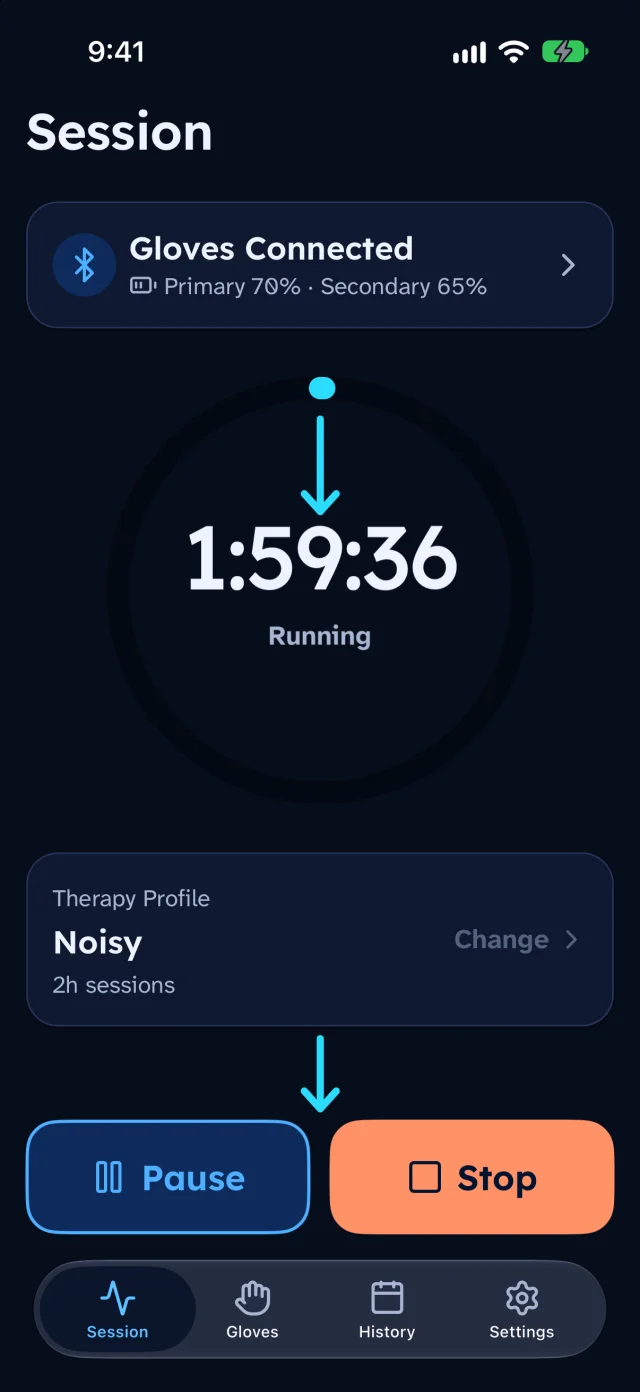
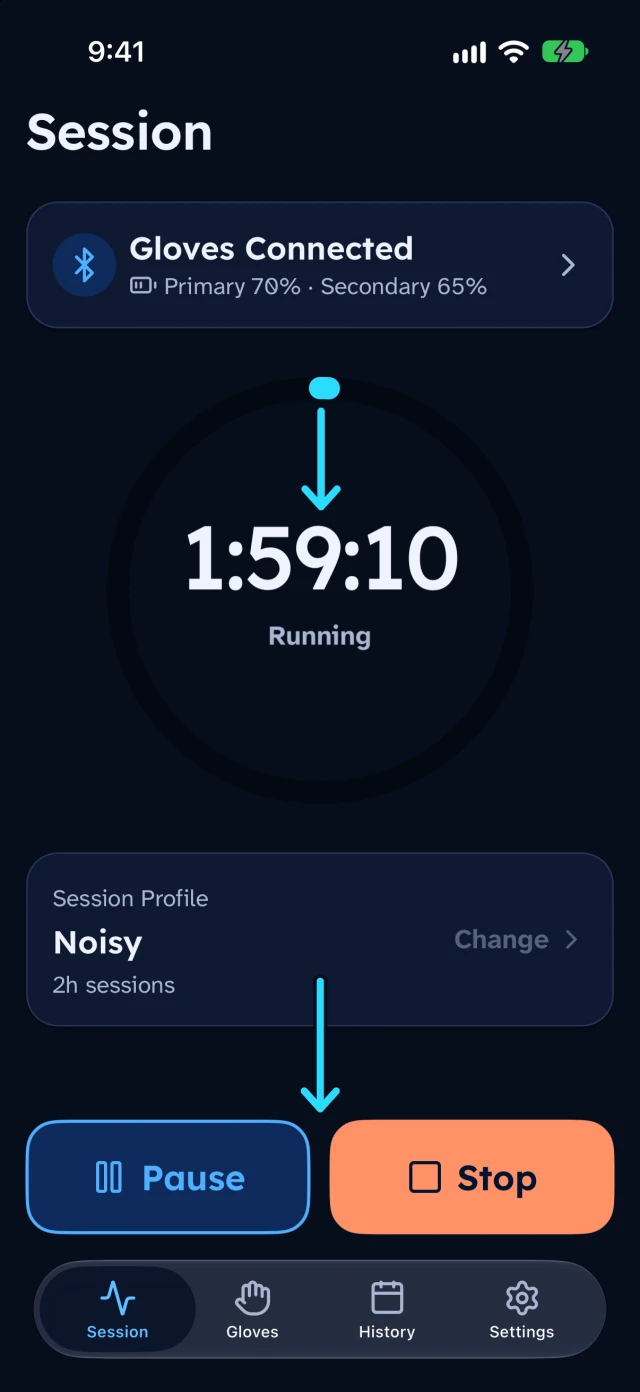
docs(guide): retake the four Session-tab screenshots with the Session Profile label

diff --git a/src/guide/sessions.md b/src/guide/sessions.md
@@ -17,7 +17,7 @@ lead: Start, pause and stop a session on the Session tab.
 
 The ring in the middle of the screen shows how much time is left. Your phone stays still during a session. The gloves are the only thing that buzzes.
 
-<Shot src="/guide/img/09-session-ready" alt="The Session tab while connected and ready, with the gloves card, session ring and profile card. An arrow points to the Start Session button." />
+<Shot src="/guide/img/09-session-ready" alt="The Session tab while connected and ready, with the gloves card, session ring and Session Profile card. An arrow points to the Start Session button." />
 
 <Shot src="/guide/img/10-session-running" alt="The Session tab during a session. One arrow points to the time left in the ring and one to the Pause and Stop buttons." />
 
